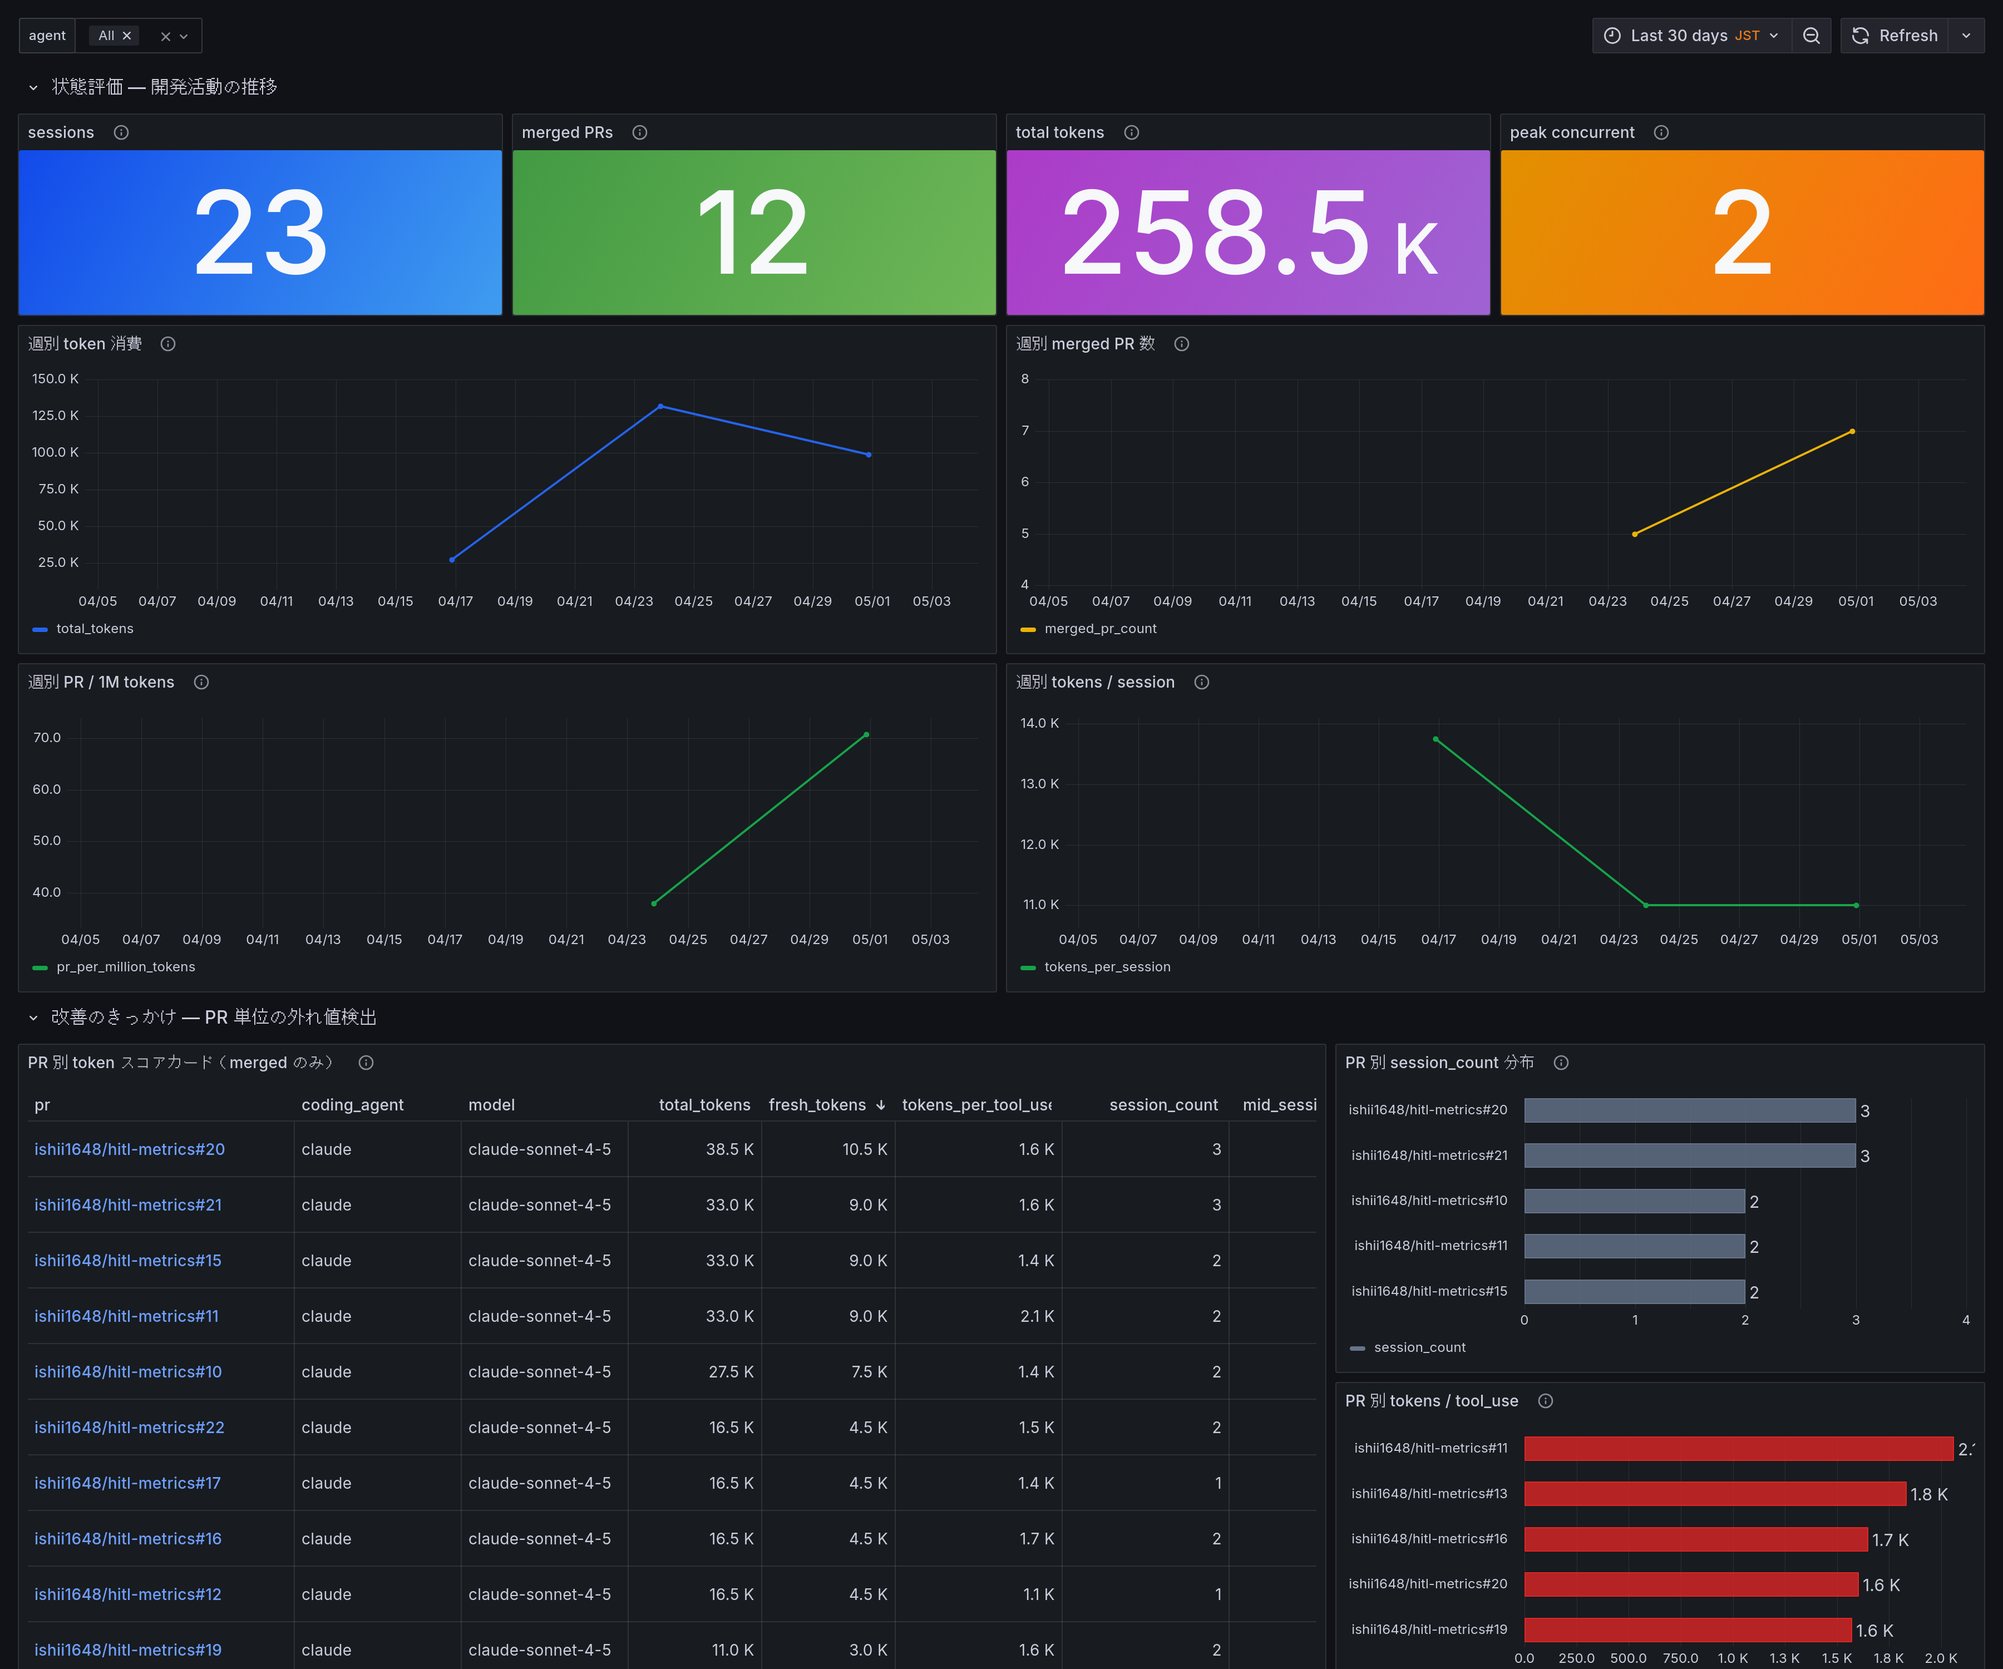
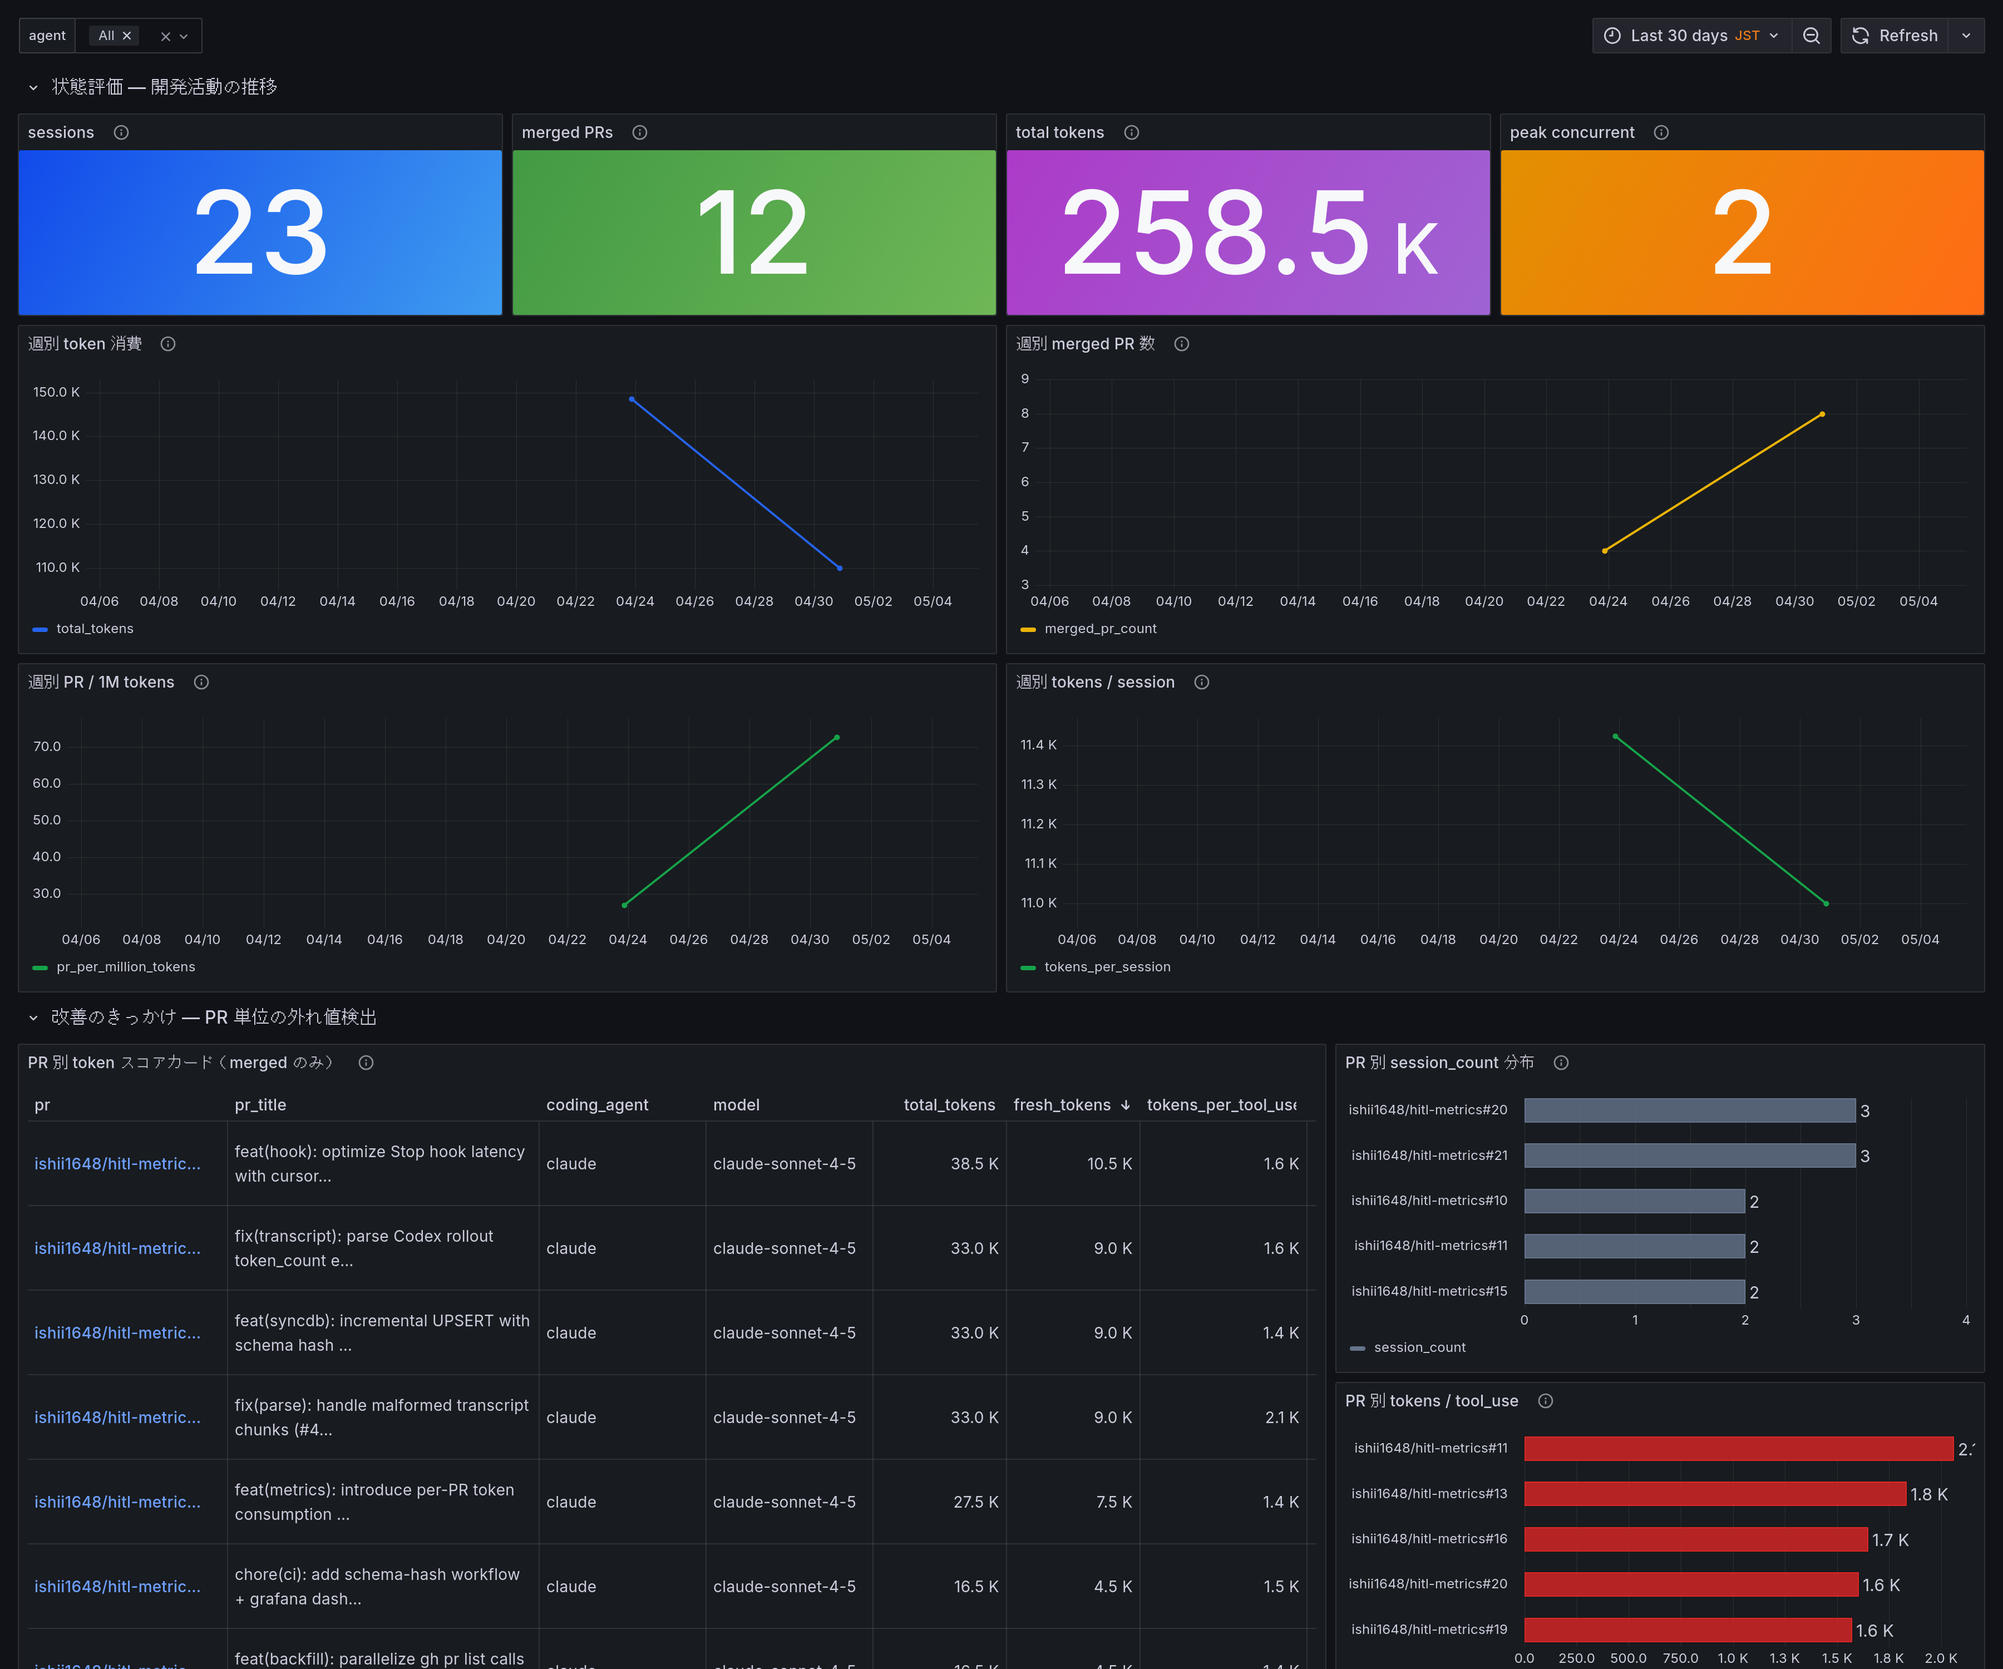
feat(dashboard): add pr_title column to PR token scorecard
intent(scorecard): pr_url alone makes it hard to recall which work a row represents — adding the title as the 2nd column reduces cognitive cost from outlier detection to drill-down
decision(backfill-fetch): piggyback `title` on the existing `gh pr {list,view} --json` call alongside is_merged / review_comments — no extra API requests
decision(empty-title-handling): UpdatePRMeta skips writing pr_title when the fetched value is empty so a transient gh failure doesn't clobber a previously-resolved title
decision(meta-cwd-fallback): when a session's cwd has been removed (e.g. renamed worktree), fall back to $HOME for `gh pr view <full-url>` — the URL identifies the PR remotely so any cwd with gh auth works; without this, all renamed-repo sessions stay forever stuck with empty titles / stale is_merged
decision(view-aggregation): MAX(s.pr_title) in pr_metrics so a single resolved session covers others where backfill hasn't run yet
decision(scorecard-truncation): truncate via `substr(pr_title,1,50) || '…'` in SQL plus Grafana cellOptions.wrapText so long titles wrap inside the cell instead of overflowing or being silently cropped
constraint(session-index-compat): pr_title field uses `omitempty` and the schema column defaults to '' so old session-index records / legacy DBs keep loading without migration

diff --git a/internal/backfill/backfill.go b/internal/backfill/backfill.go
@@ -24,6 +24,7 @@ type group struct {
 type result struct {
 	group            group
 	url              string
+	title            string
 	markChecked      bool
 	isMerged         bool
 	comments         int
@@ -33,6 +34,7 @@ type result struct {
 // prJSON represents a PR entry from gh pr list --json output.
 type prJSON struct {
 	URL      string        `json:"url"`
+	Title    string        `json:"title"`
 	State    string        `json:"state"`
 	Comments []interface{} `json:"comments"`
 	Reviews  []reviewJSON  `json:"reviews"`
@@ -226,7 +228,7 @@ func runURLBackfill(indexPath string, sessions []sessionindex.Session, recheck b
 				}
 			}
 			// Also set merge info right away
-			if _, err := sessionindex.UpdatePRMeta(indexPath, r.url, r.isMerged, r.comments, r.changesRequested); err != nil {
+			if _, err := sessionindex.UpdatePRMeta(indexPath, r.url, r.isMerged, r.comments, r.changesRequested, r.title); err != nil {
 				fmt.Fprintf(os.Stderr, "backfill: update-meta %s: %v\n", r.url, err)
 			}
 		} else if r.markChecked {
@@ -281,6 +283,7 @@ func runMetaBackfill(indexPath string, sessions []sessionindex.Session) error {
 
 	type metaResult struct {
 		url              string
+		title            string
 		isMerged         bool
 		comments         int
 		changesRequested int
@@ -298,10 +301,17 @@ func runMetaBackfill(indexPath string, sessions []sessionindex.Session) error {
 			sem <- struct{}{}
 			defer func() { <-sem }()
 
+			// `gh pr view <full-url>` は cwd の git remote に依存しないので、
+			// 元の cwd が消えていても HOME にフォールバックしてリモート解決する。
+			// リネームや worktree 削除で cwd が消えた古いセッションでも meta を更新できる。
 			cwd := t.cwd
 			if cwd == "" || !isDir(cwd) {
-				results <- metaResult{url: t.url}
-				return
+				home, err := os.UserHomeDir()
+				if err != nil || !isDir(home) {
+					results <- metaResult{url: t.url}
+					return
+				}
+				cwd = home
 			}
 
 			pr, err := fetchPRByURL(t.url, cwd)
@@ -311,6 +321,7 @@ func runMetaBackfill(indexPath string, sessions []sessionindex.Session) error {
 			}
 			results <- metaResult{
 				url:              t.url,
+				title:            pr.Title,
 				isMerged:         pr.State == "MERGED",
 				comments:         len(pr.Comments),
 				changesRequested: countChangesRequested(pr.Reviews),
@@ -327,7 +338,7 @@ func runMetaBackfill(indexPath string, sessions []sessionindex.Session) error {
 	updated := 0
 	for r := range results {
 		if r.ok {
-			if _, err := sessionindex.UpdatePRMeta(indexPath, r.url, r.isMerged, r.comments, r.changesRequested); err != nil {
+			if _, err := sessionindex.UpdatePRMeta(indexPath, r.url, r.isMerged, r.comments, r.changesRequested, r.title); err != nil {
 				fmt.Fprintf(os.Stderr, "backfill-meta: update %s: %v\n", r.url, err)
 			}
 			updated++
@@ -350,7 +361,7 @@ func fetchPR(g group) result {
 		"--head", g.branch,
 		"--author", "@me",
 		"--state", "all",
-		"--json", "url,state,comments,reviews",
+		"--json", "url,title,state,comments,reviews",
 		"--limit", "1",
 	)
 	cmd.Dir = cwd
@@ -375,6 +386,7 @@ func fetchPR(g group) result {
 		return result{
 			group:            g,
 			url:              pr.URL,
+			title:            pr.Title,
 			isMerged:         pr.State == "MERGED",
 			comments:         len(pr.Comments),
 			changesRequested: countChangesRequested(pr.Reviews),
@@ -388,7 +400,7 @@ func fetchPR(g group) result {
 // fetchPRByURL fetches PR metadata for an existing PR URL using gh pr view.
 func fetchPRByURL(prURL, cwd string) (*prJSON, error) {
 	cmd := exec.Command("gh", "pr", "view", prURL,
-		"--json", "url,state,comments,reviews",
+		"--json", "url,title,state,comments,reviews",
 	)
 	cmd.Dir = cwd
 

diff --git a/internal/sessionindex/update.go b/internal/sessionindex/update.go
@@ -201,7 +201,7 @@ func UpdateEnd(indexPath string, sessionID string, endedAt string, reason string
 
 // UpdatePRMeta updates PR metadata for all sessions that have the given pr_url.
 // Returns true if the file was modified.
-func UpdatePRMeta(indexPath string, prURL string, isMerged bool, reviewComments, changesRequested int) (bool, error) {
+func UpdatePRMeta(indexPath string, prURL string, isMerged bool, reviewComments, changesRequested int, prTitle string) (bool, error) {
 	if prURL == "" {
 		return false, nil
 	}
@@ -227,7 +227,7 @@ func UpdatePRMeta(indexPath string, prURL string, isMerged bool, reviewComments,
 		if !match {
 			continue
 		}
-		if s.IsMerged == isMerged && s.ReviewComments == reviewComments && s.ChangesRequested == changesRequested {
+		if s.IsMerged == isMerged && s.ReviewComments == reviewComments && s.ChangesRequested == changesRequested && s.PRTitle == prTitle {
 			continue
 		}
 
@@ -243,6 +243,14 @@ func UpdatePRMeta(indexPath string, prURL string, isMerged bool, reviewComments,
 		raw, err = remarshalWithUpdate(raw, "changes_requested", changesRequested)
 		if err != nil {
 			return false, err
+		}
+		// gh が title を返さなかったケース（取得失敗）で既存 pr_title を空で上書きしないよう、
+		// 空文字列の prTitle は書かない。明示的にクリアしたい場合はそもそも呼び出さない。
+		if prTitle != "" {
+			raw, err = remarshalWithUpdate(raw, "pr_title", prTitle)
+			if err != nil {
+				return false, err
+			}
 		}
 		raws[i] = raw
 		updated = true
@@ -284,14 +292,15 @@ func remarshalWithUpdate(raw json.RawMessage, key string, value any) (json.RawMe
 		"repo":              3,
 		"branch":            4,
 		"pr_urls":           5,
-		"transcript":        6,
-		"parent_session_id": 7,
-		"ended_at":          8,
-		"end_reason":        9,
-		"backfill_checked":  10,
-		"is_merged":         11,
-		"review_comments":   12,
-		"changes_requested": 13,
+		"pr_title":          6,
+		"transcript":        7,
+		"parent_session_id": 8,
+		"ended_at":          9,
+		"end_reason":        10,
+		"backfill_checked":  11,
+		"is_merged":         12,
+		"review_comments":   13,
+		"changes_requested": 14,
 	}
 	sort.Slice(keys, func(i, j int) bool {
 		oi, oki := order[keys[i]]

diff --git a/internal/syncdb/syncdb.go b/internal/syncdb/syncdb.go
@@ -105,8 +105,8 @@ func runWithSources(sources []agentSource, dbPath string) error {
 	defer tx.Rollback()
 
 	sessionStmt, err := tx.Prepare(`INSERT OR REPLACE INTO sessions
-		(session_id, coding_agent, agent_version, timestamp, cwd, repo, branch, pr_url, transcript, parent_session_id, ended_at, end_reason, is_subagent, backfill_checked, is_merged, task_type, review_comments, changes_requested)
-		VALUES (?, ?, ?, ?, ?, ?, ?, ?, ?, ?, ?, ?, ?, ?, ?, ?, ?, ?)`)
+		(session_id, coding_agent, agent_version, timestamp, cwd, repo, branch, pr_url, pr_title, transcript, parent_session_id, ended_at, end_reason, is_subagent, backfill_checked, is_merged, task_type, review_comments, changes_requested)
+		VALUES (?, ?, ?, ?, ?, ?, ?, ?, ?, ?, ?, ?, ?, ?, ?, ?, ?, ?, ?)`)
 	if err != nil {
 		return err
 	}
@@ -163,9 +163,14 @@ func runWithSources(sources []agentSource, dbPath string) error {
 			}
 			taskType := ExtractTaskType(s.Branch)
 
+			prTitle := s.PRTitle
+			if prURL == "" {
+				prTitle = ""
+			}
+
 			if _, err := sessionStmt.Exec(
 				s.SessionID, codingAgent, s.AgentVersion, s.Timestamp, s.CWD, s.Repo, s.Branch,
-				prURL, s.Transcript, s.ParentSessionID, s.EndedAt, s.EndReason,
+				prURL, prTitle, s.Transcript, s.ParentSessionID, s.EndedAt, s.EndReason,
 				isSubagent, backfillChecked, isMerged, taskType, s.ReviewComments, s.ChangesRequested,
 			); err != nil {
 				return fmt.Errorf("insert session %s/%s: %w", codingAgent, s.SessionID, err)

diff --git a/internal/sessionindex/update_test.go b/internal/sessionindex/update_test.go
@@ -236,7 +236,7 @@ func TestUpdatePRMeta_ChangesRequested(t *testing.T) {
 		`{"timestamp":"2026-03-01 10:00:00","session_id":"s1","cwd":"/tmp","repo":"user/repo","branch":"main","pr_urls":["https://github.com/user/repo/pull/1"],"transcript":"","parent_session_id":"","backfill_checked":false}`,
 	})
 
-	updated, err := UpdatePRMeta(p, "https://github.com/user/repo/pull/1", true, 4, 2)
+	updated, err := UpdatePRMeta(p, "https://github.com/user/repo/pull/1", true, 4, 2, "fix: address review")
 	if err != nil {
 		t.Fatal(err)
 	}
@@ -253,6 +253,9 @@ func TestUpdatePRMeta_ChangesRequested(t *testing.T) {
 	}
 	if sessions[0].ChangesRequested != 2 {
 		t.Fatalf("changes_requested = %d, want 2", sessions[0].ChangesRequested)
+	}
+	if sessions[0].PRTitle != "fix: address review" {
+		t.Fatalf("pr_title = %q, want %q", sessions[0].PRTitle, "fix: address review")
 	}
 }
 

diff --git a/internal/sessionindex/sessionindex.go b/internal/sessionindex/sessionindex.go
@@ -18,6 +18,7 @@ type Session struct {
 	Repo             string   `json:"repo"`
 	Branch           string   `json:"branch"`
 	PRURLs           []string `json:"pr_urls"`
+	PRTitle          string   `json:"pr_title,omitempty"`
 	Transcript       string   `json:"transcript"`
 	ParentSessionID  string   `json:"parent_session_id"`
 	EndedAt          string   `json:"ended_at"`

diff --git a/internal/syncdb/schema_hash.go b/internal/syncdb/schema_hash.go
@@ -2,4 +2,4 @@
 
 package syncdb
 
[2 lines of base64/hex data omitted]

diff --git a/docs/spec.md b/docs/spec.md
@@ -114,6 +114,7 @@ agent ごとに収集元を分離し、SQLite DB は単一に集約する。
   "repo": "org/repo",
   "branch": "feature-xxx",
   "pr_urls": ["https://github.com/org/repo/pull/123"],
+  "pr_title": "feat: add metrics dashboard",
   "transcript": "/path/to/transcript.jsonl",
   "parent_session_id": "",
   "ended_at": "2026-02-27 13:00:00",
@@ -128,6 +129,7 @@ agent ごとに収集元を分離し、SQLite DB は単一に集約する。
 - `coding_agent` は `claude` または `codex`。欠落時は `claude` として扱う（後方互換）。
 - `agent_version` は agent 自身が報告するバージョン文字列（取得不能なら空文字列）。バージョン跨ぎでの効率比較に使う。
 - `pr_urls` は PostToolUse / Stop / `update` / `backfill` から重複排除しつつ追記される。`sync-db` は配列の最後の 1 件を採用する。
+- `pr_title` は backfill が `gh pr view --json title` で取得する PR タイトル。欠落時 / 取得失敗時は空文字列として扱う（後方互換）。
 - `backfill_checked: true` のレコードは backfill で再 API 呼び出しされない。PR が存在しないブランチで永続スキップされる。
 - Codex の場合: `end_reason` は Stop hook の最終発火を記録するため `stop` 固定。`transcript` は `~/.codex/sessions/.../rollout-*.jsonl[.zst]` のフルパス。
 - 後方互換: 古いレコードに新フィールドが欠けていても扱える（欠落値は 0 / false / 空文字列）。
@@ -150,6 +152,7 @@ agent ごとに収集元を分離し、SQLite DB は単一に集約する。
 | `repo` | TEXT | リポジトリ（`org/repo` 形式） |
 | `branch` | TEXT | ブランチ名 |
 | `pr_url` | TEXT | PR URL（`pr_urls` 配列の最後の 1 件） |
+| `pr_title` | TEXT | PR タイトル。backfill が `gh pr view --json title` で取得（取得不能なら空） |
 | `transcript` | TEXT | transcript ファイルパス |
 | `parent_session_id` | TEXT | 親セッション ID。サブエージェント判定用 |
 | `ended_at` | TEXT | セッション終了時刻 |
@@ -201,7 +204,9 @@ PR 単位の集約ビュー。次のフィルタ条件を適用する。
 | `is_ghost = 0` | ゴーストセッションを除外 |
 | `repo NOT IN ('ishii1648/dotfiles')` | dotfiles リポジトリを除外 |
 
-集約カラム: `pr_url`, `coding_agent`, `model`, `session_count`, `tool_use_total`, `mid_session_msgs`, `ask_user_question`, `input_tokens`, `output_tokens`, `cache_write_tokens`, `cache_read_tokens`, `reasoning_tokens`, `review_comments`, `changes_requested`, `total_tokens`, `fresh_tokens`, `tokens_per_session`, `tokens_per_tool_use`, `pr_per_million_tokens`
+集約カラム: `pr_url`, `pr_title`, `coding_agent`, `model`, `session_count`, `tool_use_total`, `mid_session_msgs`, `ask_user_question`, `input_tokens`, `output_tokens`, `cache_write_tokens`, `cache_read_tokens`, `reasoning_tokens`, `review_comments`, `changes_requested`, `total_tokens`, `fresh_tokens`, `tokens_per_session`, `tokens_per_tool_use`, `pr_per_million_tokens`
+
+`pr_title` は同一 PR に紐づく全セッションで等しい想定だが、安全のため `MAX(s.pr_title)` で集約する（未取得セッションが空文字列を返しても、取得済みセッションのタイトルが採用される）。
 
 `task_type` は集約軸から外れている（ADR-024 で「定量指標は task_type を集計軸に使わない」方針が採用されたため）。`sessions.task_type` カラム自体は後方互換と任意フィルタの余地として残す。
 
